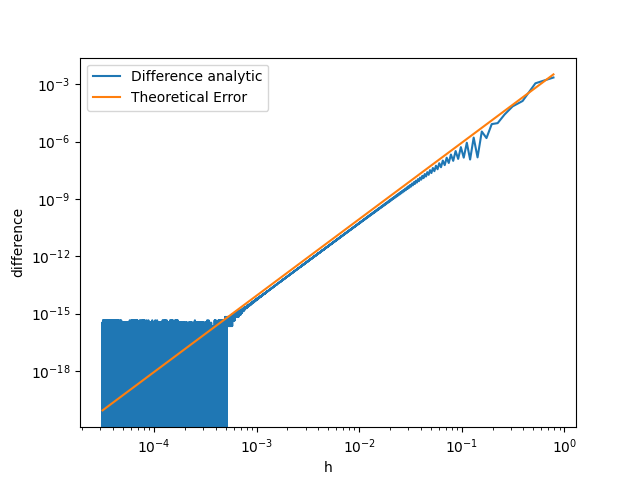
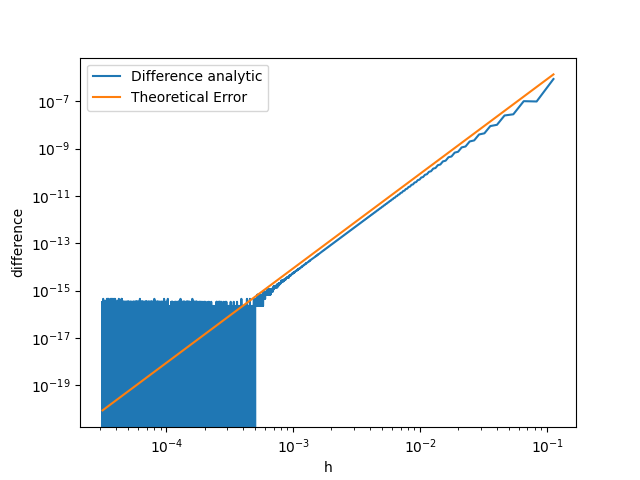
turn np.sin into function

diff --git a/exercise1/simpson_2.py b/exercise1/simpson_2.py
@@ -67,9 +67,9 @@ b = np.pi / 2
 function = np.sin
 analytic = 1
 
-h_range = 50000
+h_range = 10000
 for i in range(3, h_range):
-    simp_result, h = simpson(a, b, i, np.sin)
+    simp_result, h = simpson(a, b, 5 * i, function)
     e = theoretical_error(0, np.pi / 2, h, 1)
     data.append(np.abs(simp_result - analytic))
     hs.append(h)
